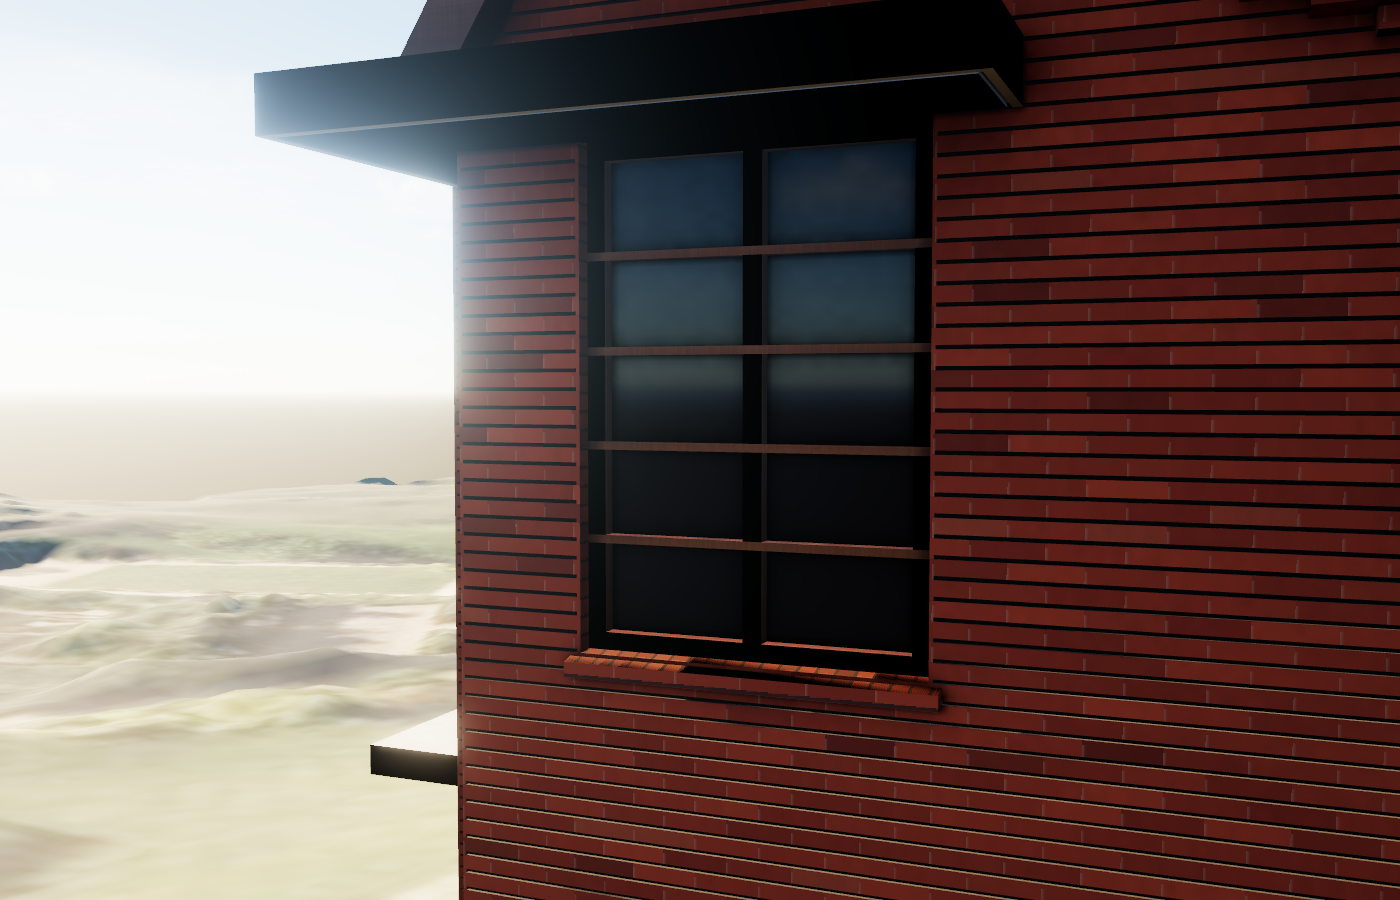
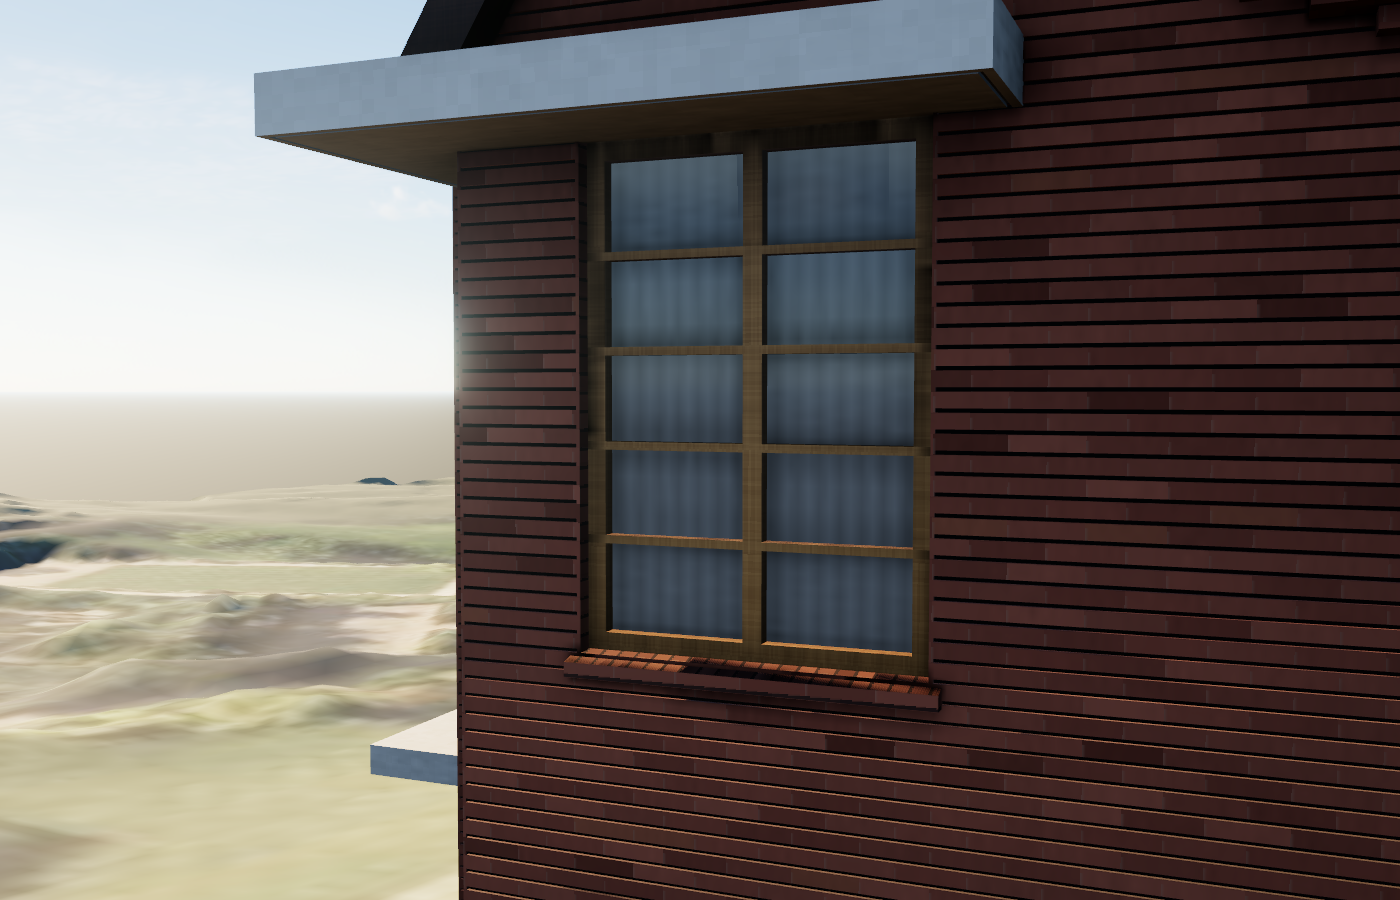
Villa look round: verification (side-by-sides with matched light, porch, grazing, LOD-band strip, flicker A/B, GPU per view, city flight x2), NOTES + TODO; per-window glass hash cells 3 m

diff --git a/viewer/vanbuurenModel.js b/viewer/vanbuurenModel.js
@@ -350,9 +350,9 @@ const TEMP = {
     // per window
     const m = std({ roughnessNode: float(0.08), metalnessNode: float(0) });
     m.colorNode = Fn(() => {
-      // the room (a tone per window: 0.8 m cells x a storey) or, in about a third of the windows, net curtains (v06:
+      // the room (a tone per window: 3 m cells x a storey, wider than any window: rarely split) or, in about a third of the windows, net curtains (v06:
       // pale, softly pleated) right behind the glass
-      const h = hash2(floor(positionWorld.xz.mul(0.8)).add(floor(positionWorld.y.div(2.6)))).toVar();
+      const h = hash2(floor(positionWorld.xz.div(3.0)).add(floor(positionWorld.y.div(2.6)))).toVar();
       const room = mix(lin(0x2a2724), lin(0x3d3832), h).mul(mix(float(0.8), float(1.15), hash2(vec2(h.mul(91.0), 3.0))));
       const pleat = abs(fract(uv(0).x.mul(7.0)).sub(0.5)).mul(2.0);
       const fw = fwidth(uv(0).x.mul(7.0));

diff --git a/models/vanbuuren/NOTES.md b/models/vanbuuren/NOTES.md
@@ -155,9 +155,66 @@ Kit: `tools/blender/vanbuuren_kit.py` (builder, frames, boxes, lathe), `vanbuure
   p99 16.9 ms; coverage 1.000 every frame, fading copies right every frame, no long task; run 1: one 117 ms frame at 6.5 s
   (d 64 m, the session's first hand-over) + 3 at 33 ms; run 2: worst 33.4 ms (11 frames > 25 ms, at the 500 m end).
 
+## Look round (2026-11-11, coordinator's review of side_v03 / side_v06)
+- Black hoods / canopy: NOT lighting. Blender's smart_project left 1098 of the "Villa" object's faces (hoods, slabs, box
+  frames, sills, frames) with no lightmap area (all four UVs at one point): they sampled AO 0 = black in every light.
+  Fix (tools/blender/vanbuuren.py lightmap()): each object has its own lightmap region (Villa 0..0.34, courses
+  0.345..0.86, far 0.865..1), and faces smart_project leaves empty get a planar projection of their own (metres on their
+  plane) before the pack. Check (Blender, the AO png sampled at every face's UV centre): black-centre faces 2408 / 3609
+  -> 538; the rest face the ground or are closed (304 with no free ray at all). Roof soffits inside the attic take
+  vertex AO.
+- Glass (viewer/vanbuurenModel.js glassReflection): the sky gradient (env's horizon / zenith) above a dark skyline band
+  and the street, emissive, Fresnel 2.5 % head-on -> 47 % grazing; a dim room per window or net curtains (pleated) in
+  about a third. Leaded glass per pane (the glass is now one face per pane, UV 0..1): code "lead" = the stair window's
+  mosaic of blue-grey rectangles (each its own glint), code "panel" = the porch windows' and the door's symmetric panels
+  (clear centre, cream squares in columns), far = the average.
+- Wood: frames golden tan (0xc4935a / 0xae7d48), bargeboards / roof soffits dark brown (v04, v00). The door's black
+  bead was a full box over the leaf (the door read black): now a 2.5 cm ring.
+- Brick (temporary): calibrated on photo samples against the white concrete in the same frame (linear, per channel, so
+  the camera's white balance and exposure drop out). Shade (v03, the north gable): photo 0.22 / 0.063 / 0.058, model
+  0.25 / 0.070 / 0.060 (before: 0.24 / 0.030 / 0.020, too saturated). Sun (v06, the west gable): photo 0.50 / 0.145 /
+  0.083, model 0.46 / 0.13 / 0.07. Lab light matched per photo: v03 day 75 15:30, v06 day 220 14:00, v00 day 75 14:00.
+- NW wing roof: DSM least squares in the wing's frame (t along from the SW end, c across toward the house): a lean-to
+  rising toward the house (z = 101.04 + 0.602 c + 0.758 t, rms 0.11 m) up to a flat roof at 104.85 (the plateau over the
+  north-east part), a brick step under the flat roof's edge: modelled. The first ~2 m at the veranda end fit a second
+  plane rising toward the SW end (z = 103.96 + 0.755 c - 0.671 t, rms 0.03 m) with a valley at t ~2.05: tried (two
+  slabs, the crease into the flat part as one convex solid), the audit kept 5-11 blocking items (12-30 mm slits under
+  the valley, a 2 mm2 coplanar at the house corner): reverted, TODO.
+- LOD2: kept at 2 levels, with numbers: LOD1 is 3,815 tris / 12 draws; the city frame at the flight's start draws 422
+  calls / 5.66 M tris (GPU 12.2 ms), so LOD1 is 0.07 % of the triangles and 2.8 % of the draws; at 400 m the villa
+  costs +0.13 ms GPU (2 timer quanta, shadow pass included). A third level cannot go under ~6 draws (one per slot still
+  visible far away) and would save < 3.8k tris; meshopt on the far variant gave 71 blocking audit items.
+- First hand-over hitch (117 ms): the shadow pass is not in compileAsync, so the first frame a level cast a shadow built
+  its shadow pipelines on the frame. viewer/vanbuurenCity.js now warms it before the model shows: every mesh and every
+  fading copy drawn one frame (3 per frame) 4 km under the city with async pipeline creation (vendor
+  parallelPipelines), then once more after the pipelines are in: 7 pipelines created, 14 draws skipped, 1.8 s in the
+  background.
+- Joints: the raked joints' colour and vertex AO go to the wall's mean once sub-pixel (vbLook.jointFade); the roof's
+  course butts get region width 0.02 (the anti-sparkle bends them far away).
+- Ridge-cap strips of ridges sharing a plane are staggered 3 mm (10 mm far) so they are never coplanar.
+
+## Look round: verification (one Chrome tab of mine; another agent's WebGPU tab, port 8819, was open: GPU noisier)
+- Side-by-sides: docs/vanbuuren/side_v03.jpg, side_v06.jpg, side_v00.jpg (git-ignored). Porch: lab_porch_look.png.
+  Grazing: lab_grazing_east_ff_window.png, lab_grazing_west_boxframe.png. Moving: lab_lod_band_moving_east.png (31 -> 72
+  m, L0 / L0+L1 / L1, no pop seen). Flicker heat map: lab_flicker_east_strafe_25m.png.
+- Mesh audit: raw LOD0 0 blocking (108,838 tris), far 0 blocking (3,815 tris); packed (report only) LOD0 4, LOD1 1.
+- GLB 2.80 MB; LOD0 108,838 tris / 15 draws, LOD1 3,815 / 12.
+- Flicker (lab, 24 frames): east 25 m fixed 0, strafe 57-78 ppm (joint fade off: 63-91), dolly 8-10 (off: 13-33);
+  SE 40 m fixed 0, strafe 61-103 (off: 58-104). Before the round: strafe 135-186. Single pixels on silhouettes,
+  chimney cap, lattice; no clusters.
+- GPU (lab, whole frame median, + = the villa, alternating off / L0 / L1): porch +1.18 / +0.78 ms, v03 +0.73 / +0.40,
+  v06 +0.91 / +0.39, SE 40 m +0.33 / 0, 70 m +0.46 / +0.20, 400 m +0.26 / +0.13 (before: porch +0.72 / +0.46, v03
+  +0.59 / +0.20; the per-pane glass with its reflection and the other tab account for the rise).
+- City flight (debug/vanbuurenFlight.js, 24 s, twice): median 16.7 ms both, coverage 1.000 every frame, fading copies
+  right every frame. Run 1: first hand-over at 6.39 s (65 m): no 117 ms frame; worst 50 ms (6.54 s, like the 50 ms
+  frames before it while tiles stream); run 2: worst 83 ms at 11.6 s in the orbit (no LOD change then), 7 frames > 34 ms.
+
 ## Still weak
-- The v00 pose (23 px) and so the south side's exact proportions; the NW wing (roof form, windows, veranda placement).
-- The brick reads darker / redder than the photos' orange in shade (temporary material; the library decides).
-- Strafe flicker ~150-190 ppm from the course geometry at 25-30 m (the anti-sparkle filter softens far parts, not these).
+- The v00 pose (23 px) and so the south side's exact proportions; the NW wing (its SW end's second roof plane, windows,
+  veranda placement).
+- Glass in the low sun's glare (v03's lower-left window) reads brighter than the photo; frames 6.5 cm (the photos read
+  ~10 cm on the first floor).
+- The porch canopy's soffit picks up a warm brown bounce in the lab's post chain (white in the AO-only debug).
+- Strafe flicker 57-103 ppm at 25-40 m (was 135-186).
 - The east bay's ground floor, the south-east ground floor, the north side: plain brick (not seen).
-- Leaded / stained glass is a generic material pattern, not each window's design.
+- Leaded glass: two patterns (stair mosaic, porch / door panels) read from v04, not each pane's exact design.

diff --git a/docs/TODO.md b/docs/TODO.md
@@ -92,14 +92,18 @@ Stairs paused until the owner's Mixamo clips are in `data/raw/animations/mixamo/
 - [ ] Owner's review (lab side-by-sides docs/vanbuuren/side_*.jpg, git-ignored; city moving strips docs/vanbuuren/city_*).
 - [ ] The v00 (south) pose is the weakest (23 px mean, focal 12 % off the EXIF prior): more off-plane correspondences
       (the oriel's corners, the B roof's south eave, the basin) or the south face from another photo.
-- [ ] The NW wing (roof, first-floor windows, veranda position) is ESTIMATED from far photos under trees: a closer photo
-      (Mapillary token / a visit) would fix its roof form (v06 suggests a hip / lean-to more than a gable).
+- [ ] The NW wing: lean-to + flat roof from the DSM (look round); its SW end's second plane (z = 103.96 + 0.755 c -
+      0.671 t, valley at t ~2.05) is not modelled: the two-slab valley left 12-30 mm slits the audit stops (try a filler
+      solid under the valley). Windows / veranda still ESTIMATED.
+- [ ] Glass: the lower-left east window in the low sun reads brighter than v03; frames 6.5 cm vs ~10 cm in the photos.
+- [ ] The lab's porch soffit takes a warm brown bounce in the post chain (white without it): check the SSGI / SSR input.
+- [ ] Lab "post effects" off: every material with an mrtNode (glass, zinc, green) fails to build (WGSL "structures must
+      have at least one member"): lab-only, the city always renders through the scene pass.
 - [ ] The east gable's ground-floor bay (behind the topiary) and the south-east ground floor: not seen, plain brick.
 - [ ] The heritage inventory has no record for Avenue Leo Errera 41 (2026-11-10): check again / the museum's plans.
 - [ ] Packed-audit leftovers after quantization (raw GLB 0 blocking): a few 4 mm slits at the ridge caps / NW roof
       course ends, one 2 cm2 union sliver at roof C's split (u -2.0); look again with a coarser quantization guard.
-- [ ] LOD2 was dropped (meshopt of the 3.8k far variant gave collapsed slabs, 71 blocking after packing): if far tiles
-      need fewer than 3.8k tris, script a "far2" (no joinery) instead of simplifying.
+- [x] LOD2: 2 levels kept (LOD1 = 0.07 % of the city frame's triangles, 2.8 % of its draws, +0.13 ms at 400 m; NOTES).
 - [ ] Materials: brick_orange_amsterdam, roof_tiles_flat_dark, concrete_white (+ brick_pattern, wood_varnished,
       glass_leaded, oak_door, metal_green_veranda, zinc_gutter) proposed for the library (claude/materials); the slot
       adapter table in viewer/vanbuurenModel.js points them at the library with one line.
